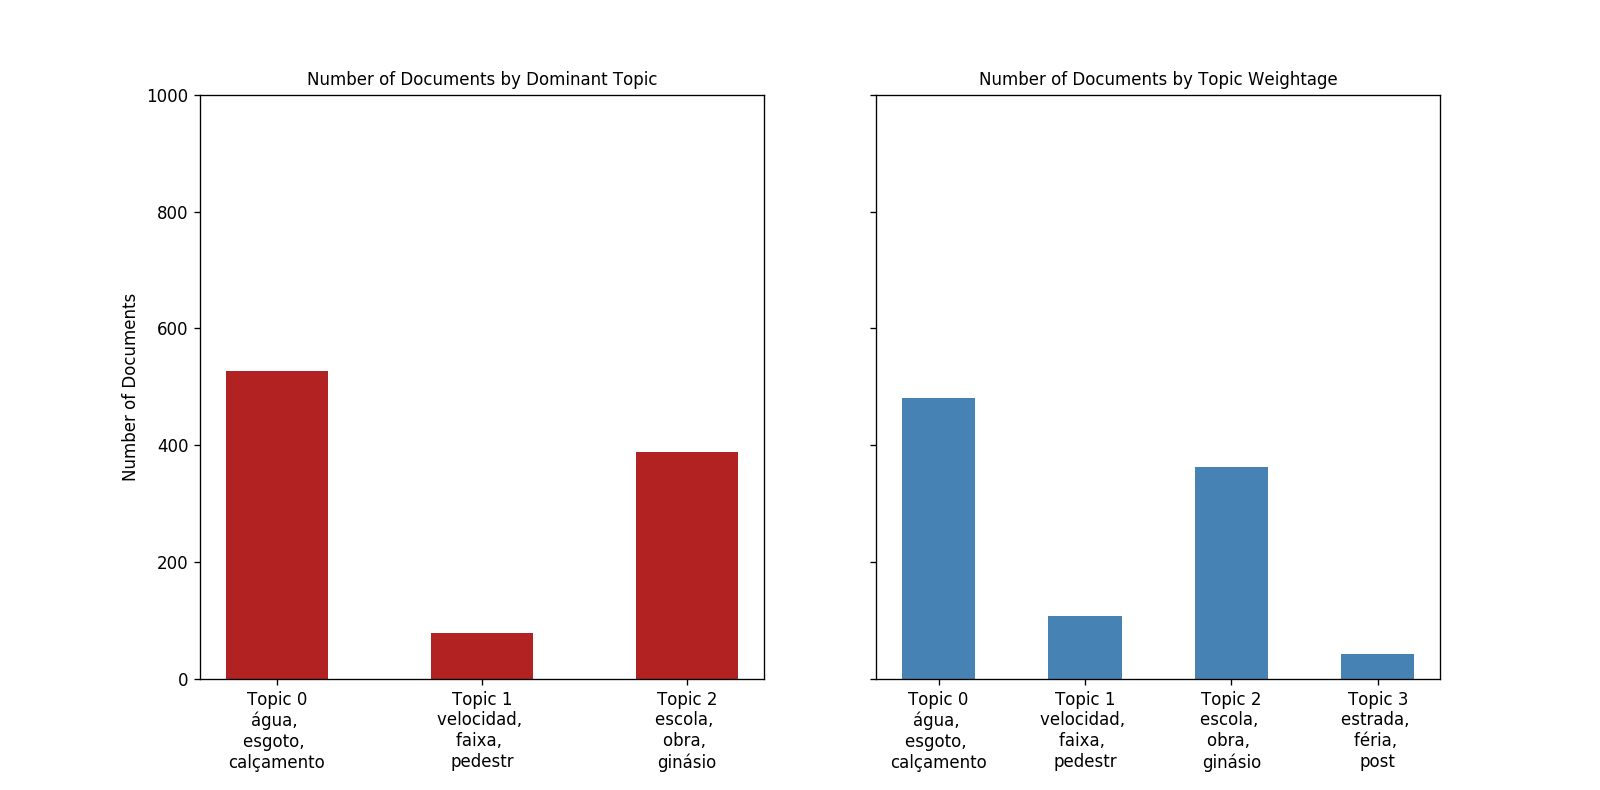
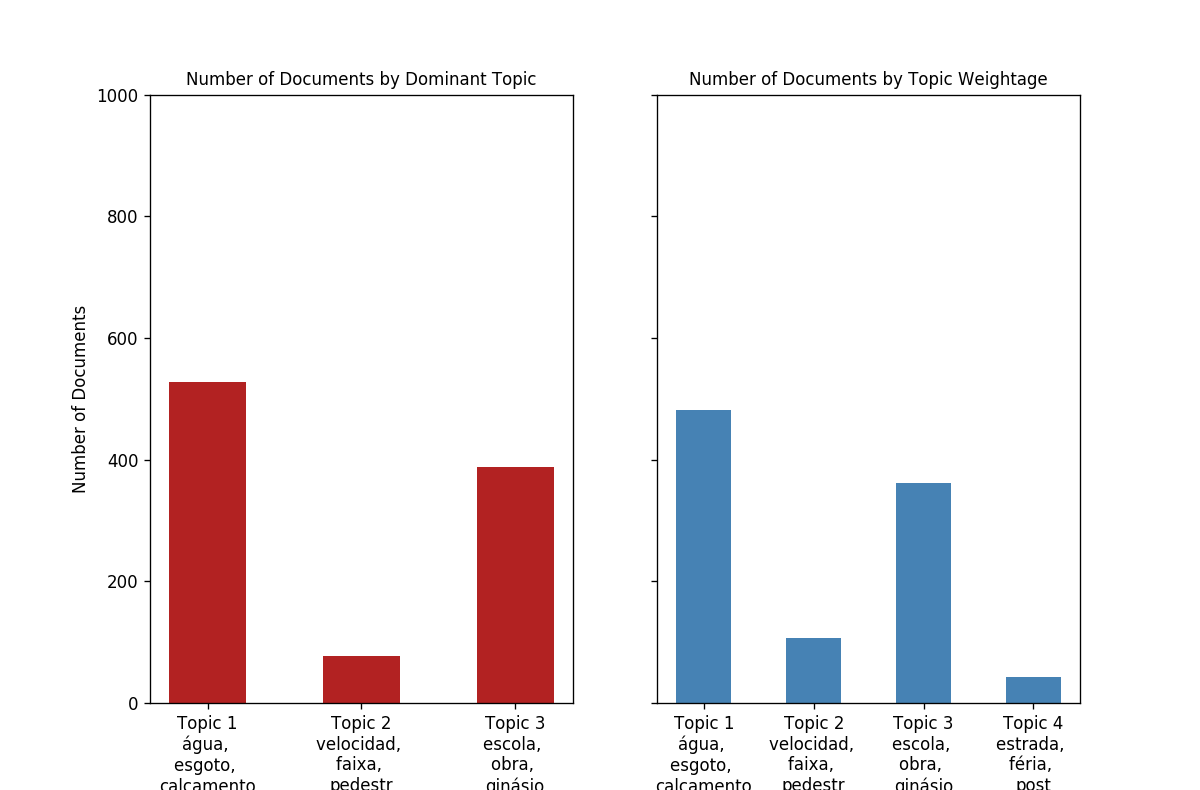
Novo gráfico gerado

diff --git a/scraping_jpb/processamento/TopicModel_.py b/scraping_jpb/processamento/TopicModel_.py
@@ -178,7 +178,8 @@ def grafico_topc_docs():
 	# Topic Distribution by Dominant Topics
 	ax1.bar(x='Dominant_Topic', height='count', data=df_dominant_topic_in_each_doc, width=.5, color='firebrick')
 	ax1.set_xticks(range(df_dominant_topic_in_each_doc.Dominant_Topic.unique().__len__()))
-	tick_formatter = FuncFormatter(lambda x, pos: 'Topic ' + str(x)+ '\n' + df_top3words.loc[df_top3words.topic_id==x, 'words'].values[0])
+	
+	tick_formatter = FuncFormatter(lambda x, pos: 'Topic ' + str(x+1)+ '\n' + df_top3words.loc[df_top3words.topic_id==x, 'words'].values[0])
 	ax1.xaxis.set_major_formatter(tick_formatter)
 	ax1.set_title('Number of Documents by Dominant Topic', fontdict=dict(size=10))
 	ax1.set_ylabel('Number of Documents')
@@ -191,7 +192,7 @@ def grafico_topc_docs():
 	ax2.set_title('Number of Documents by Topic Weightage', fontdict=dict(size=10))
 
 	plt.show()
-# grafico_topc_docs()
+grafico_topc_docs()
 
 			# Imprimir os tópicos do modelo.
 def imprimir_topicos():
@@ -205,7 +206,7 @@ def coherence_model(lda_model_, processed_docs, corpus_tfidf, dictionary):
 	coherence_model_lda = CoherenceModel(model=lda_model_, texts=processed_docs, corpus=corpus_tfidf, dictionary=dictionary, coherence='c_v')
 	coherence_lda = coherence_model_lda.get_coherence()
 	print('\nCoherence Score LDAModelTfIdf: ', coherence_lda)
-coherence_model(lda_model_tfidf, processed_docs, corpus_tfidf, dictionary)
+# coherence_model(lda_model_tfidf, processed_docs, corpus_tfidf, dictionary)
 
 			# Testes simples
 def testes():
